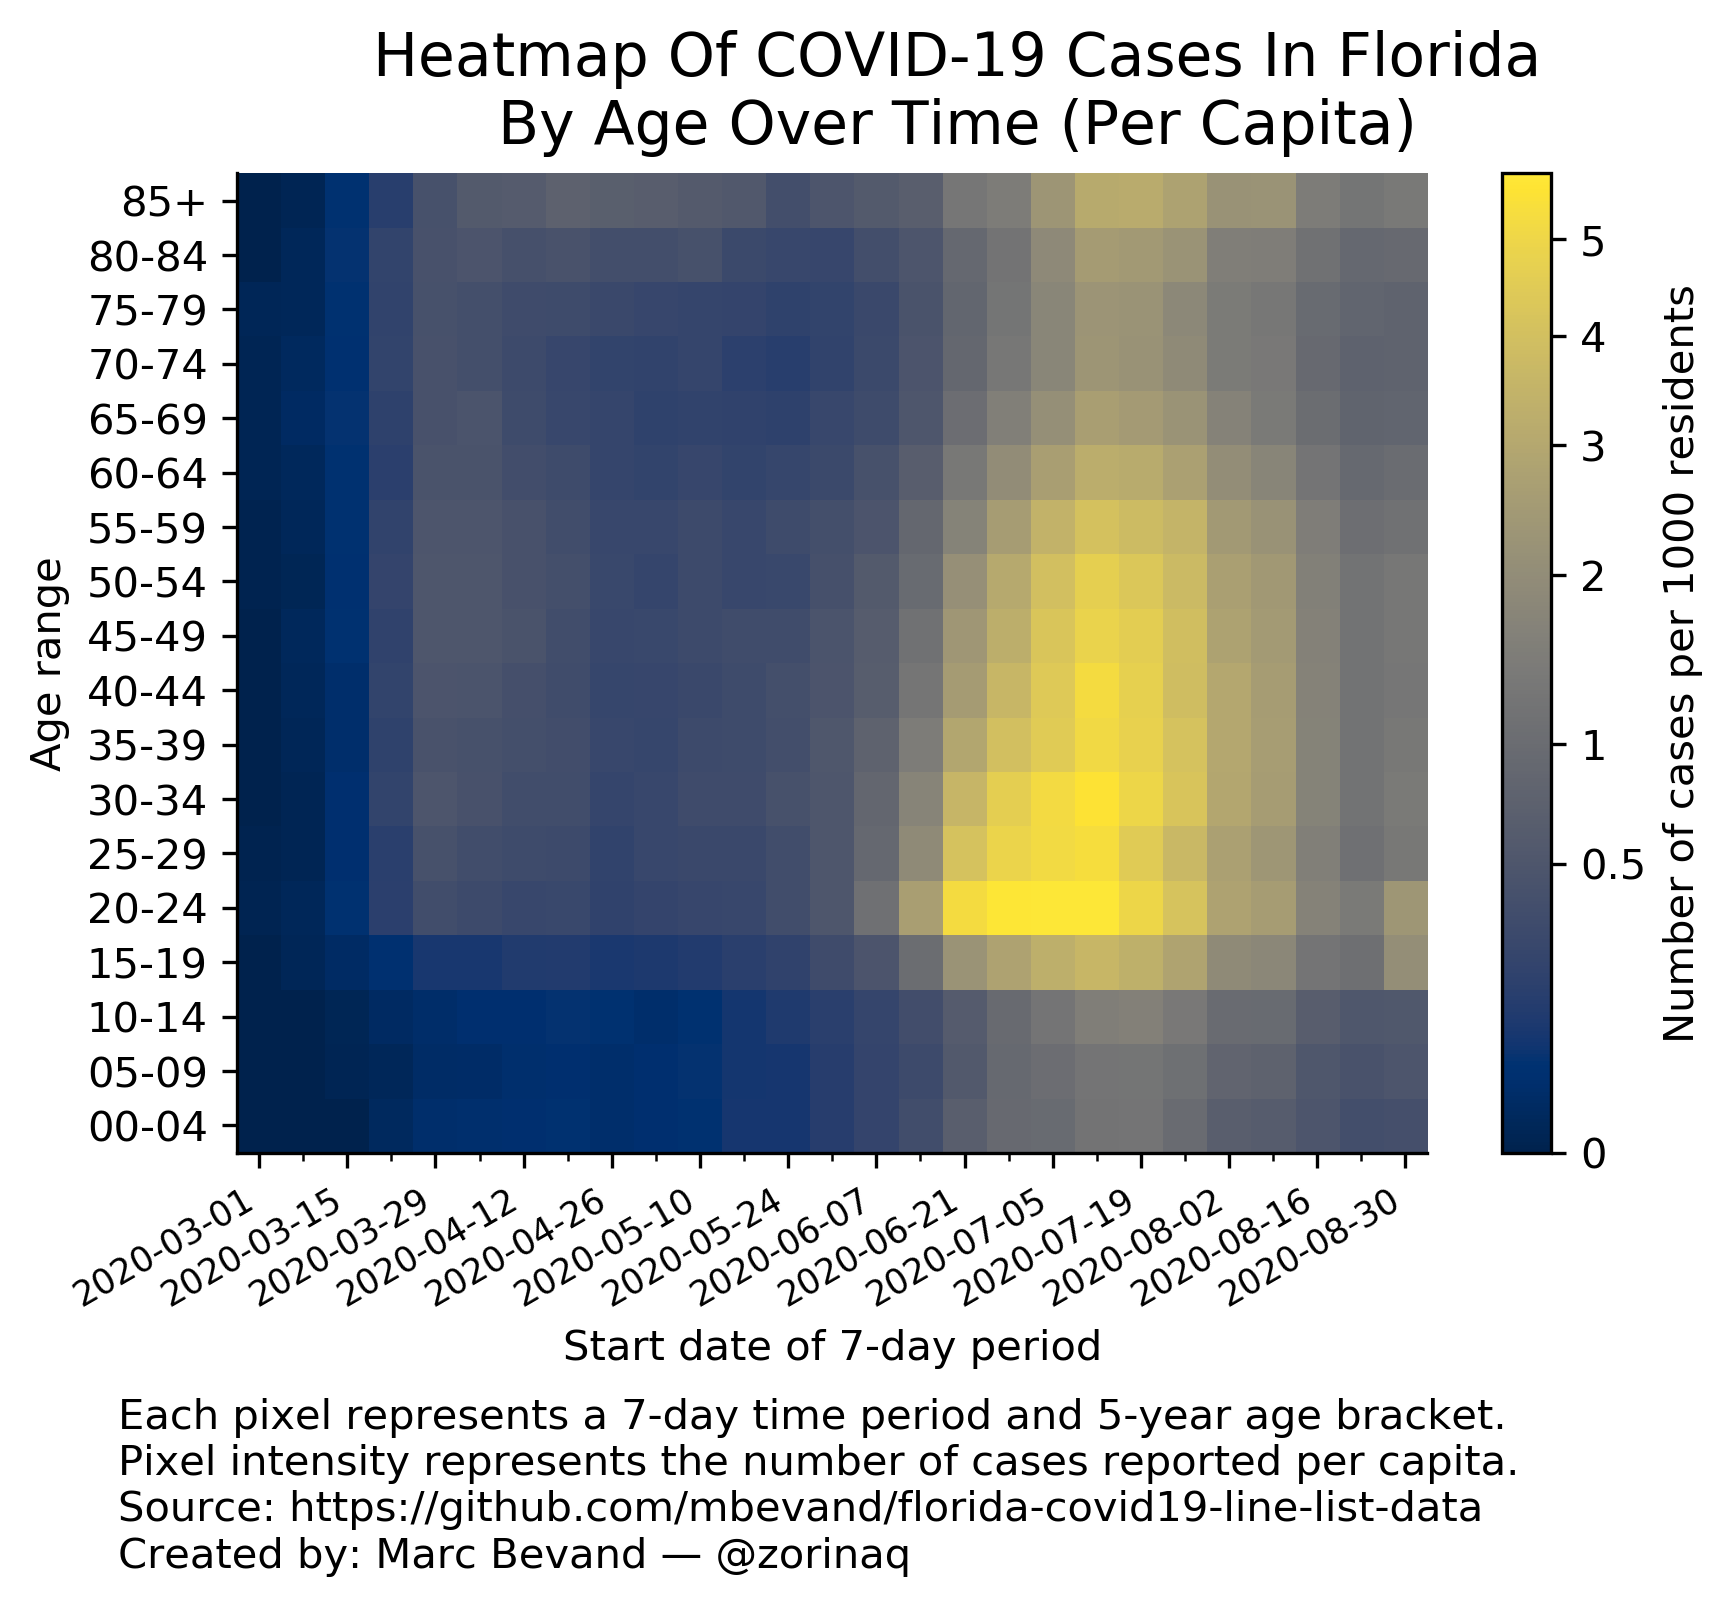
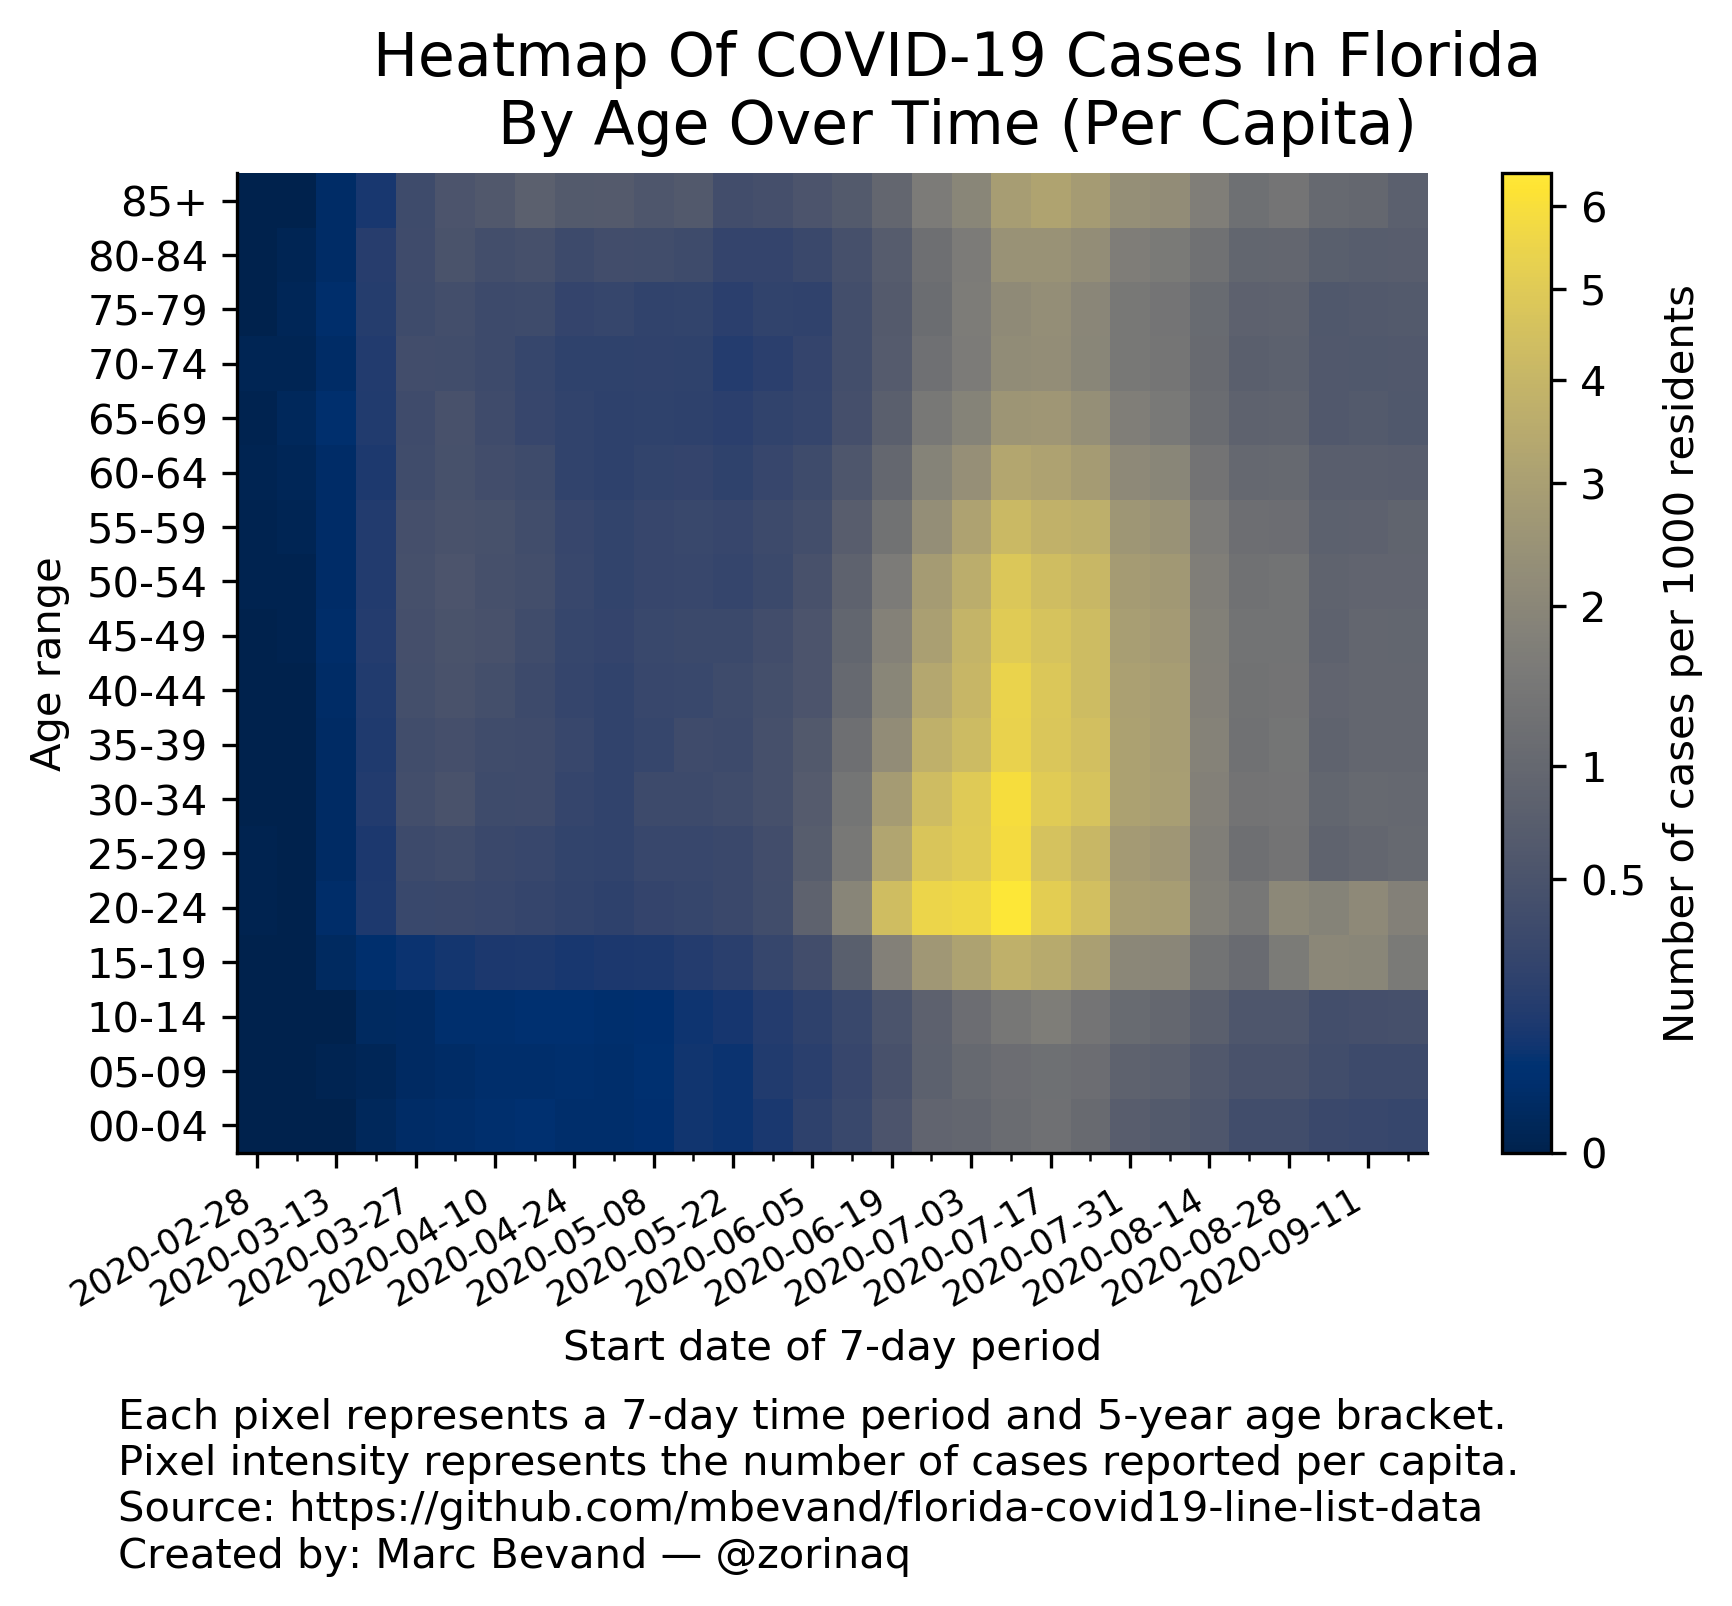
heatmaps: update

diff --git a/README.md b/README.md
@@ -1,6 +1,6 @@
 # Forecasting deaths and analyzing age trends of COVID-19 cases in Florida
 
-*Updated: 19 September 2020*
+*Updated: 25 September 2020*
 
 Author: Marc Bevand
 
@@ -387,37 +387,40 @@ It creates various heatmaps of cases by age over time:
 
 ```
 $ ./heatmap.py
-Opening data_fdoh/2020-09-06-08-48-47.csv
+Opening data_fdoh/2020-09-25-07-58-17.csv
 Number of COVID-19 cases per 7-day time period in Florida by age bracket over time:
 period_start, 00-04, 05-09, 10-14, 15-19, 20-24, 25-29, 30-34, 35-39, 40-44, 45-49, 50-54, 55-59, 60-64, 65-69, 70-74, 75-79, 80-84, 85+, median_age
-  2020-03-01,     0,     0,     0,     0,     1,     1,     0,     0,     0,     0,     1,     1,     2,     2,     2,     3,     0,     0,  65.0
-  2020-03-08,     0,     0,     0,     4,     7,     3,     2,     5,     6,     8,     4,     8,     9,    17,    10,     4,     3,     1,  59.0
-  2020-03-15,     0,     2,     3,    21,    57,    48,    45,    36,    34,    63,    54,    64,    64,    67,    40,    41,    30,    26,  53.0
-  2020-03-22,    10,     5,    17,    49,   205,   222,   283,   254,   272,   273,   315,   298,   235,   235,   237,   176,   121,    84,  50.0
-  2020-03-29,    32,    21,    28,   109,   428,   577,   652,   583,   604,   701,   716,   704,   631,   550,   470,   345,   234,   228,  50.0
-  2020-04-05,    34,    25,    42,   108,   383,   481,   569,   541,   577,   669,   699,   706,   636,   593,   418,   313,   262,   325,  51.0
-  2020-04-12,    37,    35,    41,   142,   330,   437,   465,   494,   490,   608,   595,   613,   493,   405,   335,   270,   220,   344,  50.0
-  2020-04-19,    49,    39,    67,   149,   341,   427,   459,   466,   416,   462,   518,   498,   441,   332,   279,   259,   246,   425,  50.0
-  2020-04-26,    29,    29,    55,   111,   251,   296,   308,   339,   305,   348,   375,   382,   323,   301,   240,   236,   205,   382,  52.0
-  2020-05-03,    37,    38,    35,   132,   276,   364,   355,   321,   319,   364,   328,   373,   297,   245,   225,   212,   202,   364,  50.0
-  2020-05-10,    51,    58,    60,   151,   313,   401,   435,   399,   354,   399,   424,   432,   352,   270,   262,   191,   226,   334,  49.0
-  2020-05-17,    94,    88,    98,   193,   329,   392,   423,   417,   392,   443,   357,   379,   306,   257,   197,   189,   161,   312,  46.0
-  2020-05-24,    91,    94,   136,   242,   425,   481,   545,   490,   468,   447,   375,   444,   336,   237,   165,   159,   144,   207,  42.0
-  2020-05-31,   162,   161,   201,   400,   624,   707,   693,   706,   594,   617,   560,   540,   413,   333,   231,   182,   138,   270,  40.0
-  2020-06-07,   258,   256,   290,   592,  1406,  1291,  1158,  1021,   814,   844,   807,   689,   576,   405,   322,   236,   206,   325,  37.0
-  2020-06-14,   392,   342,   436,  1273,  3356,  2757,  2317,  1938,  1607,  1555,  1365,  1280,   916,   650,   529,   377,   272,   378,  34.0
-  2020-06-21,   765,   645,   762,  2760,  6594,  5830,  4808,  3907,  3229,  3193,  2943,  2436,  1871,  1349,   991,   717,   500,   723,  34.0
-  2020-06-28,  1069,  1047,  1203,  3472,  7126,  6986,  6222,  5295,  4591,  4443,  4301,  3744,  2819,  2031,  1458,  1054,   679,   826,  36.0
-  2020-07-05,  1109,  1189,  1523,  4113,  7216,  7312,  6947,  5954,  5561,  5759,  5542,  4991,  3759,  2700,  1995,  1491,  1061,  1305,  39.0
-  2020-07-12,  1373,  1380,  1927,  4464,  7205,  7554,  7434,  6804,  6618,  6599,  6539,  5919,  4586,  3441,  2578,  1908,  1424,  1744,  41.0
-  2020-07-19,  1408,  1409,  2016,  4132,  6288,  6399,  6685,  6351,  5968,  6251,  6036,  5502,  4413,  3264,  2445,  1877,  1363,  1778,  41.0
-  2020-07-26,  1122,  1250,  1694,  3525,  5207,  5253,  5638,  5439,  4958,  5369,  5268,  5088,  3844,  2898,  2139,  1563,  1239,  1561,  42.0
-  2020-08-02,   770,   928,  1230,  2375,  3537,  3883,  4006,  3998,  3798,  3764,  3743,  3581,  2882,  2126,  1590,  1184,   861,  1234,  42.0
-  2020-08-09,   716,   858,  1223,  2253,  3256,  3330,  3463,  3451,  3240,  3371,  3379,  3175,  2460,  1826,  1504,  1107,   847,  1248,  42.0
-  2020-08-16,   553,   596,   811,  1512,  2081,  2232,  2265,  2232,  2103,  2208,  2192,  2185,  1734,  1338,  1051,   816,   642,   829,  43.0
-  2020-08-23,   416,   493,   655,  1353,  1755,  1608,  1591,  1574,  1489,  1621,  1650,  1564,  1300,  1030,   846,   692,   500,   700,  43.0
-  2020-08-30,   445,   552,   680,  2538,  2947,  1891,  1867,  1772,  1637,  1780,  1815,  1662,  1436,  1084,   878,   657,   527,   773,  39.0
-(Last period's data may be incomplete. Age unknown for 2317 out of 646431 cases.)
+  2020-02-28,     0,     0,     0,     0,     1,     1,     0,     0,     0,     0,     1,     1,     2,     1,     2,     0,     0,     0,  63.0
+  2020-03-06,     0,     0,     0,     0,     0,     0,     0,     0,     0,     1,     1,     3,     5,    10,     2,     3,     1,     0,  66.5
+  2020-03-13,     0,     1,     0,    15,    33,    27,    25,    23,    26,    38,    31,    32,    33,    41,    24,    26,    11,    11,  51.0
+  2020-03-20,     9,     4,    17,    42,   149,   159,   181,   161,   165,   200,   193,   203,   166,   169,   152,   129,    88,    55,  50.0
+  2020-03-27,    24,    18,    18,    87,   382,   475,   550,   515,   528,   590,   614,   621,   519,   467,   434,   287,   202,   196,  50.0
+  2020-04-03,    32,    22,    41,   108,   388,   533,   646,   578,   610,   680,   736,   700,   648,   605,   430,   345,   279,   294,  51.0
+  2020-04-10,    37,    34,    44,   132,   365,   451,   468,   489,   525,   644,   618,   663,   558,   464,   379,   280,   230,   346,  51.0
+  2020-04-17,    45,    35,    59,   148,   321,   417,   483,   471,   426,   498,   566,   547,   483,   359,   301,   287,   252,   450,  51.0
+  2020-04-24,    35,    36,    55,   119,   285,   337,   342,   389,   331,   371,   409,   407,   328,   294,   231,   207,   186,   362,  50.0
+  2020-05-01,    33,    34,    44,   135,   257,   328,   303,   306,   288,   343,   334,   341,   285,   261,   231,   228,   219,   374,  51.0
+  2020-05-08,    42,    47,    46,   142,   318,   414,   447,   357,   374,   410,   383,   406,   337,   270,   246,   191,   212,   314,  48.0
+  2020-05-15,    93,    90,    95,   182,   339,   414,   442,   471,   379,   439,   399,   436,   350,   260,   239,   198,   192,   354,  47.0
+  2020-05-22,    80,    79,   111,   222,   391,   439,   501,   449,   445,   442,   362,   412,   300,   244,   158,   158,   139,   219,  43.0
+  2020-05-29,   121,   147,   183,   339,   488,   566,   598,   591,   528,   531,   458,   481,   398,   300,   208,   191,   137,   246,  42.0
+  2020-06-05,   235,   202,   248,   493,  1076,  1027,   916,   842,   676,   721,   663,   597,   485,   338,   281,   188,   177,   300,  38.0
+  2020-06-12,   337,   313,   377,   956,  2471,  2126,  1881,  1603,  1311,  1295,  1198,  1062,   804,   566,   458,   343,   250,   361,  36.0
+  2020-06-19,   598,   530,   641,  2225,  5504,  4638,  3808,  2997,  2510,  2465,  2245,  1905,  1389,  1012,   763,   564,   393,   549,  34.0
+  2020-06-26,  1028,   928,  1033,  3296,  6961,  6773,  5791,  4993,  4252,  4096,  3944,  3357,  2635,  1926,  1406,   967,   683,   907,  36.0
+  2020-07-03,  1110,  1172,  1451,  3836,  7115,  7108,  6656,  5667,  5119,  5320,  5065,  4556,  3348,  2441,  1810,  1367,   908,  1123,  38.0
+  2020-07-10,  1289,  1318,  1821,  4669,  8063,  8320,  7988,  7156,  6862,  6823,  6720,  6041,  4674,  3324,  2479,  1811,  1366,  1634,  40.0
+  2020-07-17,  1432,  1394,  2081,  4294,  6471,  6518,  6755,  6361,  6108,  6285,  6075,  5564,  4453,  3430,  2523,  1925,  1375,  1797,  41.0
+  2020-07-24,  1217,  1336,  1720,  3729,  5582,  5816,  6228,  5944,  5448,  5794,  5700,  5361,  4018,  3013,  2228,  1680,  1276,  1602,  42.0
+  2020-07-31,   826,   964,  1360,  2523,  3759,  3985,  4152,  4105,  3842,  3986,  3940,  3805,  2995,  2223,  1663,  1242,   937,  1306,  42.0
+  2020-08-07,   748,   898,  1241,  2500,  3654,  3776,  3933,  3873,  3684,  3788,  3757,  3558,  2785,  1992,  1593,  1143,   869,  1259,  42.0
+  2020-08-14,   642,   705,   982,  1648,  2242,  2436,  2422,  2464,  2267,  2388,  2391,  2349,  1893,  1450,  1197,   908,   719,   972,  43.0
+  2020-08-21,   432,   543,   700,  1376,  1832,  1739,  1826,  1716,  1647,  1790,  1797,  1725,  1409,  1114,   866,   702,   530,   699,  43.0
+  2020-08-28,   436,   545,   704,  1978,  2619,  1930,  1833,  1851,  1697,  1804,  1851,  1705,  1453,  1134,   915,   715,   539,   772,  40.0
+  2020-09-04,   349,   431,   512,  2517,  2371,  1231,  1265,  1164,  1145,  1162,  1209,  1179,  1067,   800,   686,   505,   424,   583,  37.0
+  2020-09-11,   336,   374,   543,  2460,  2687,  1364,  1377,  1276,  1227,  1310,  1270,  1227,  1047,   836,   680,   537,   398,   560,  37.0
+  2020-09-18,   303,   378,   553,  1945,  2259,  1456,  1340,  1294,  1212,  1294,  1269,  1298,  1032,   780,   690,   538,   413,   446,  38.0
+(Last period's data may be incomplete. Age unknown for 1854 out of 695887 cases.)
 ```
 
 By default the size of each pixel, or *bucket*, is 5-year age brackets and 7-day
